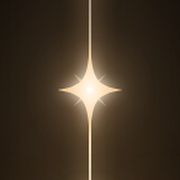
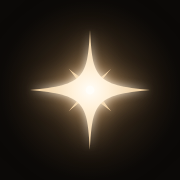
New Moira wordmark: dotless i with eight-point star
Claude-Session: https://claude.ai/code/session_01KbGQ7QiKuZTHcfE3pzpQoM

diff --git a/index.html b/index.html
@@ -81,19 +81,21 @@ body{font-family:var(--sans);font-weight:300;-webkit-font-smoothing:antialiased;
 
 /* threshold */
 #r0 .stack{position:absolute;left:0;right:0;top:50%;transform:translateY(-58%)}
-.mark{position:relative;height:1em;font-family:var(--serif);font-weight:300;font-size:clamp(3.6rem,12vw,11.5rem);letter-spacing:.16em;line-height:1;--gap:20px}
+.mark{position:relative;height:1em;font-family:"Cormorant","Cormorant Garamond",Garamond,"Times New Roman",serif;font-weight:300;font-style:normal;font-size:clamp(4.4rem,15vw,13.5rem);letter-spacing:.035em;line-height:1;--gap:20px}
+.mark .wm{position:absolute;top:0;left:50%;white-space:nowrap;color:#efe6d8;text-shadow:0 0 60px rgba(233,185,127,.18);transform:translateX(var(--wx,-50%));font-kerning:normal}
+.mark .wm .ii{position:static;transform:none;color:inherit;text-shadow:inherit;letter-spacing:inherit}
 .mark span{position:absolute;top:0;transition:filter 2.4s var(--slow),opacity 2.4s var(--slow)}
 .mark .mo{right:calc(50% + var(--gap));margin-right:-.16em}
 .mark .ra{left:calc(50% + var(--gap))}
-.mark .star{position:absolute;left:50%;top:-.62em;width:.52em;height:.52em;margin-left:-.26em;pointer-events:none;opacity:0;animation:starfall 2.8s cubic-bezier(.16,.84,.3,1) .9s forwards}
+.mark .star{position:absolute;left:var(--sx,50%);top:var(--sy,.2em);width:.31em;height:.31em;margin:-.155em 0 0 -.155em;pointer-events:none;opacity:0;animation:starfall 2.8s cubic-bezier(.16,.84,.3,1) .9s forwards}
 .mark .star::before{content:"";position:absolute;left:50%;bottom:50%;width:1px;margin-left:-.5px;height:0;background:linear-gradient(rgba(255,236,210,0),rgba(255,236,210,.85));animation:startail 2.8s cubic-bezier(.16,.84,.3,1) .9s forwards}
-.star-tw{position:absolute;inset:0;display:block;transform:scale(calc(1 + var(--hold,0) * .55));transition:transform .3s;filter:drop-shadow(0 0 .04em #fff3e0) drop-shadow(0 0 .12em rgba(233,185,127,.9)) drop-shadow(0 0 .3em rgba(233,185,127,.55))}
+.star-tw{position:absolute;inset:0;display:block;filter:drop-shadow(0 0 .02em #fff3e0) drop-shadow(0 0 .06em rgba(233,185,127,.85)) drop-shadow(0 0 .16em rgba(233,185,127,.45))}
 .star-tw svg{width:100%;height:100%;display:block;overflow:visible;animation:twinkle 5.5s ease-in-out 3.7s infinite;transform-origin:50% 50%}
 @keyframes starfall{0%{opacity:0;transform:translateY(-62vh) scale(.25)}12%{opacity:1}78%{transform:translateY(.04em) scale(1.06)}100%{opacity:1;transform:none}}
 @keyframes startail{0%{height:0}15%{height:34vh}70%{height:10vh;opacity:.8}100%{height:0;opacity:0}}
 @keyframes twinkle{0%,100%{transform:scale(1) rotate(0)}45%{transform:scale(1.12) rotate(4deg)}55%{transform:scale(.94) rotate(3deg)}}
-.mark .ii{left:50%;transform:translateX(-50%);color:#fff6ea;text-shadow:0 0 18px rgba(255,236,210,.9),0 0 46px rgba(233,185,127,.75),0 0 110px rgba(233,185,127,.45);letter-spacing:0}
-.mark span{text-shadow:0 0 60px rgba(233,185,127,.18)}
+
+
 .side{position:absolute;top:calc(100% + 2.2rem);letter-spacing:normal;font-size:1rem;width:min(40vw,22rem);display:grid;gap:10px}
 .side.l{right:calc(50% + 28px);text-align:right}
 .side.r{left:calc(50% + 28px)}
@@ -341,6 +343,7 @@ body:not(.entered) #gn{pointer-events:none}
 </style>
 <style>
 /* coming soon */
+@media (max-width:760px){.mark{font-size:22vw}}
 .side.soon{top:calc(100% + 2.4rem)}
 .soon-t{margin:0;font-family:var(--sans);font-weight:300;font-size:clamp(.62rem,.9vw,.78rem);letter-spacing:.62em;text-transform:uppercase;color:var(--ash);opacity:0;animation:soonIn 2.6s var(--slow) 3.4s forwards}
 .side.l .soon-t{margin-right:-.62em}
@@ -363,7 +366,7 @@ body,body *{cursor:default!important}
 <section class="room on" id="r0" aria-label="Threshold">
   <div class="stack">
     <h1 class="sr">Moira. Your thread, beautifully read.</h1>
-    <div class="mark b" data-at="0" id="mark"><span class="mo" aria-hidden="true">MO</span><span class="ii" id="ii" aria-hidden="true">I</span><span class="star" aria-hidden="true"><span class="star-tw"><svg viewBox="-50 -50 100 100"><circle r="13" fill="url(#starH)"/><path d="M0,-24 C1.3,-5 2,-2 24,0 C2,2 1.3,5 0,24 C-1.3,5 -2,2 -24,0 C-2,-2 -1.3,-5 0,-24Z" fill="url(#starG)" opacity=".7" transform="rotate(45)"/><path d="M0,-50 C2.6,-12 4.5,-4.5 34,0 C4.5,4.5 2.6,12 0,50 C-2.6,12 -4.5,4.5 -34,0 C-4.5,-4.5 -2.6,-12 0,-50Z" fill="url(#starG)"/><circle r="3.2" fill="#fffdf8"/><defs><radialGradient id="starH"><stop offset="0" stop-color="#ffe7c4" stop-opacity=".55"/><stop offset="1" stop-color="#e9b97f" stop-opacity="0"/></radialGradient><radialGradient id="starG"><stop offset="0" stop-color="#fffaf2"/><stop offset=".35" stop-color="#ffe7c4"/><stop offset="1" stop-color="#e9b97f"/></radialGradient></defs></svg></span></span><span class="ra" aria-hidden="true">RA</span>
+    <div class="mark b" data-at="0" id="mark"><span class="wm" id="wm" aria-hidden="true">Mo<span class="ii" id="ii">ı</span>ra</span><span class="star" id="star" aria-hidden="true"><span class="star-tw"><svg viewBox="-50 -50 100 100"><defs><radialGradient id="sg"><stop offset="0" stop-color="#fffdf8"/><stop offset=".3" stop-color="#fff0d8"/><stop offset="1" stop-color="#e9c48f"/></radialGradient><radialGradient id="sh"><stop offset="0" stop-color="#ffe7c4" stop-opacity=".6"/><stop offset="1" stop-color="#e9b97f" stop-opacity="0"/></radialGradient></defs><circle r="16" fill="url(#sh)"/><path transform="rotate(45)" d="M0,-25 C1.4,-6 2.4,-2.4 25,0 C2.4,2.4 1.4,6 0,25 C-1.4,6 -2.4,2.4 -25,0 C-2.4,-2.4 -1.4,-6 0,-25Z" fill="url(#sg)"/><path d="M0,-50 C2.2,-11 4,-4 50,0 C4,4 2.2,11 0,50 C-2.2,11 -4,4 -50,0 C-4,-4 -2.2,-11 0,-50Z" fill="url(#sg)"/><circle r="3.6" fill="#fffdf8"/></svg></span></span>
       <div class="side l soon"><p class="soon-t">Coming</p></div>
       <div class="side r soon"><p class="soon-t">Soon</p></div>
     </div>
@@ -919,7 +922,7 @@ function drawPoolText() {
 function resize() {
   W = innerWidth; H = innerHeight; DPR = Math.min(devicePixelRatio || 1, W < 760 ? 1.5 : 1.75);
   if (useGL) { cv.width = Math.round(W * DPR); cv.height = Math.round(H * DPR); gl.viewport(0, 0, cv.width, cv.height); drawPoolText(); }
-  buildTrace(); buildRing(); buildRibbon(); placeTicks();
+  buildTrace(); buildRing(); buildRibbon(); placeTicks(); placeMark();
 }
 
 /* ---------- overlays in image space ---------- */
@@ -1085,6 +1088,29 @@ function roomOne(dt, active, pp) {
   rd1.L += (rd1.Lt - rd1.L) * (1 - Math.pow(.02, dt));
   rd1.k = 1 - rd1.L * .06;
   rd1.lift = rd1.L * .07;
+}
+
+/* ---------- wordmark: centre the dotless i on the beam, star in the dot position ---------- */
+function placeMark() {
+  const mark = $("#mark"), wm = $("#wm"), ii = $("#ii"); if (!mark || !wm) return;
+  const fs = parseFloat(getComputedStyle(mark).fontSize);
+  const wr = wm.getBoundingClientRect(), ir = ii.getBoundingClientRect();
+  const ic = ir.left + ir.width / 2 - wr.left;
+  const c = document.createElement("canvas"), g = c.getContext("2d"), N = 400;
+  c.width = N; c.height = N; g.font = `300 ${N * .6}px ${getComputedStyle(mark).fontFamily}`; g.textBaseline = "alphabetic";
+  const ink = t => { g.clearRect(0, 0, N, N); g.fillText(t, N * .3, N * .8); return g.getImageData(0, 0, N, N).data; };
+  const a = ink("i"), b = ink("\u0131"); let y0 = N, y1 = -1, x0 = N, x1 = -1;
+  for (let y = 0; y < N; y++) for (let x = 0; x < N; x++) { const k = (y * N + x) * 4 + 3; if (a[k] > 80 && b[k] < 20) { if (y < y0) y0 = y; if (y > y1) y1 = y; if (x < x0) x0 = x; if (x > x1) x1 = x; } }
+  const scale = fs / (N * .6);
+  let dotY = y1 > 0 ? ((y0 + y1) / 2 - N * .8) * scale : -.62 * fs;   /* relative to baseline */
+  const asc = (() => { const m = g.measureText("M"); return (m.fontBoundingBoxAscent || N * .6 * .9) * scale; })();
+  const lineTop = (fs - (asc + ((g.measureText("M").fontBoundingBoxDescent || N * .6 * .25) * scale))) / 2;
+  const base = lineTop + asc;
+  const dotX = y1 > 0 ? (((x0 + x1) / 2 - N * .3) * scale) : ir.width / 2;
+  const iiLeftInWm = ir.left - wr.left;
+  mark.style.setProperty("--wx", `${(-(iiLeftInWm + dotX)).toFixed(1)}px`);
+  mark.style.setProperty("--sx", "50%");
+  mark.style.setProperty("--sy", `${(base + dotY).toFixed(1)}px`);
 }
 /* ---------- hold mechanic: hold is how you commit ---------- */
 const holds = []; let activeHold = null;
@@ -1462,7 +1488,7 @@ function frame() {
 document.addEventListener("visibilitychange", () => { if (document.hidden) holding = false; snd.pause(document.hidden); });
 buildWords(); renderSentence();
 resize(); addEventListener("resize", () => { clearTimeout(resize.t); resize.t = setTimeout(resize, 120); });
-if (document.fonts) document.fonts.load('300 100px Cormorant').then(() => document.fonts.load('italic 300 100px Cormorant')).then(() => { drawPoolText(); ribTextLen = 0; }).catch(() => {});
+if (document.fonts) document.fonts.load('300 100px Cormorant').then(() => document.fonts.load('italic 300 100px Cormorant')).then(() => { drawPoolText(); ribTextLen = 0; placeMark(); }).catch(() => {});
 requestAnimationFrame(frame);
 })();
 </script>
